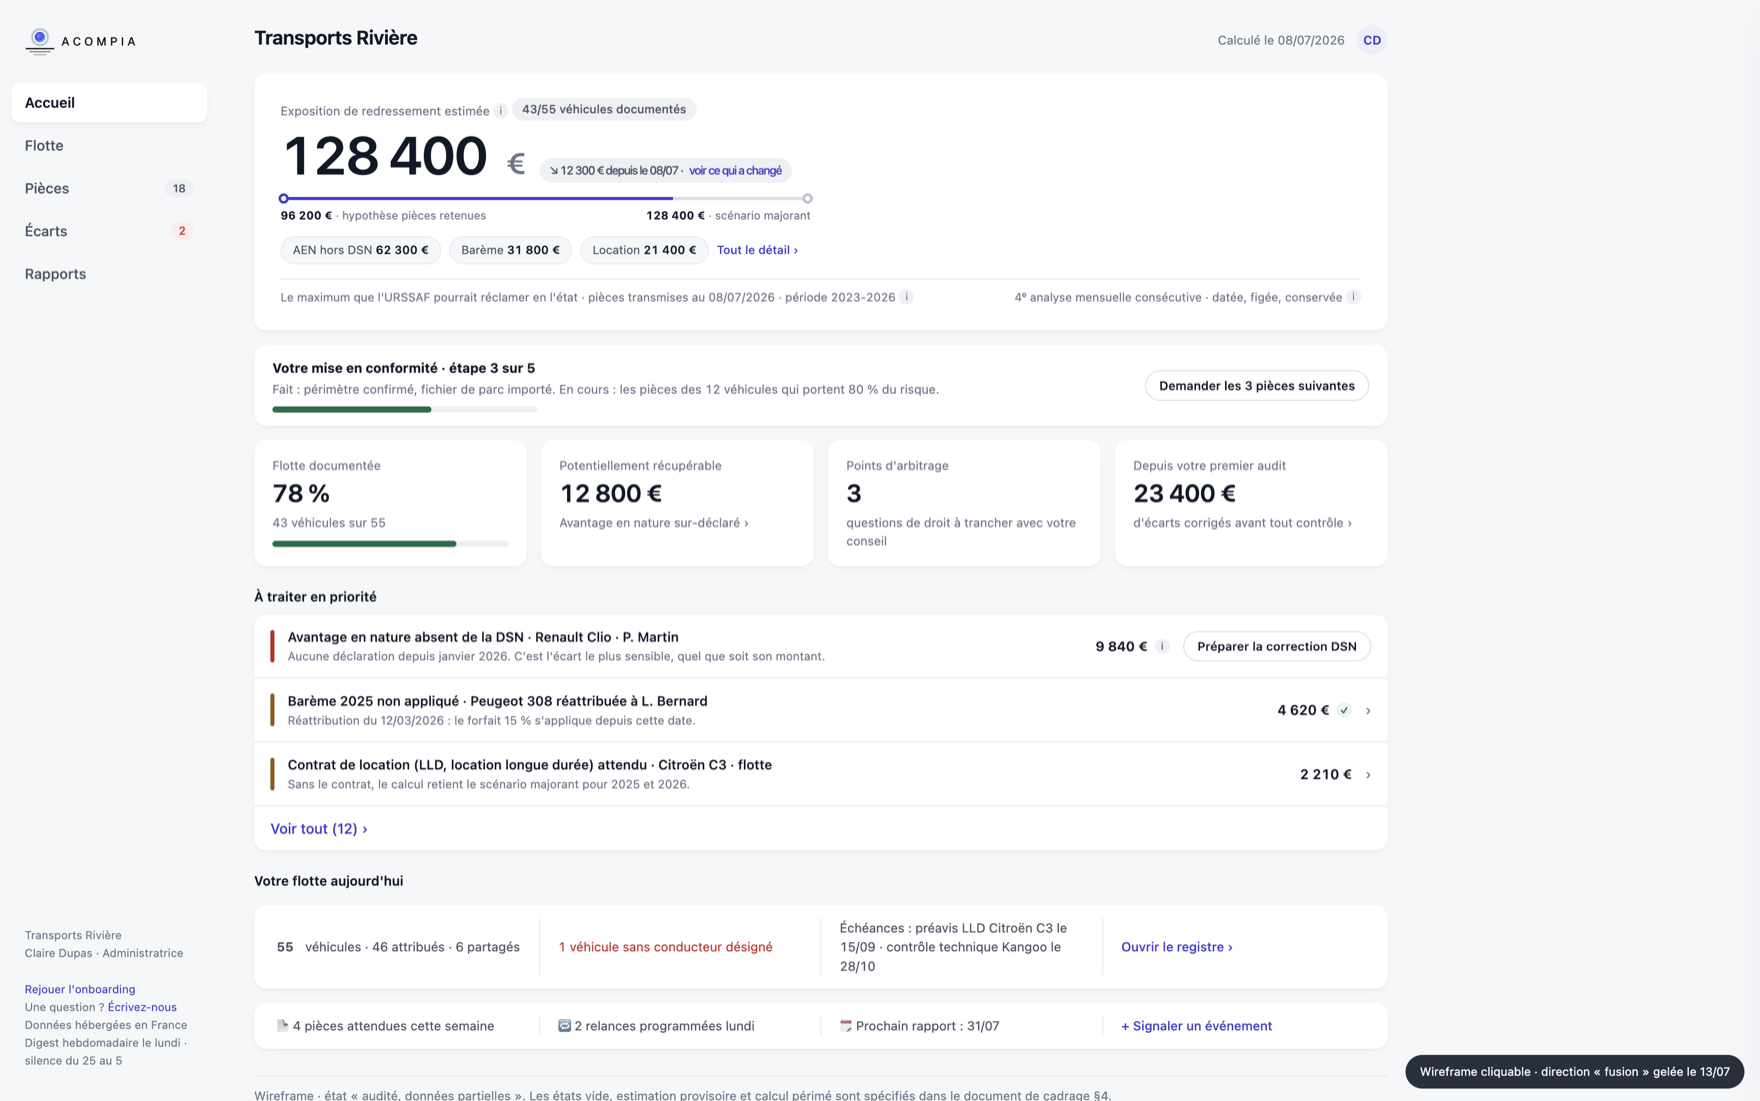
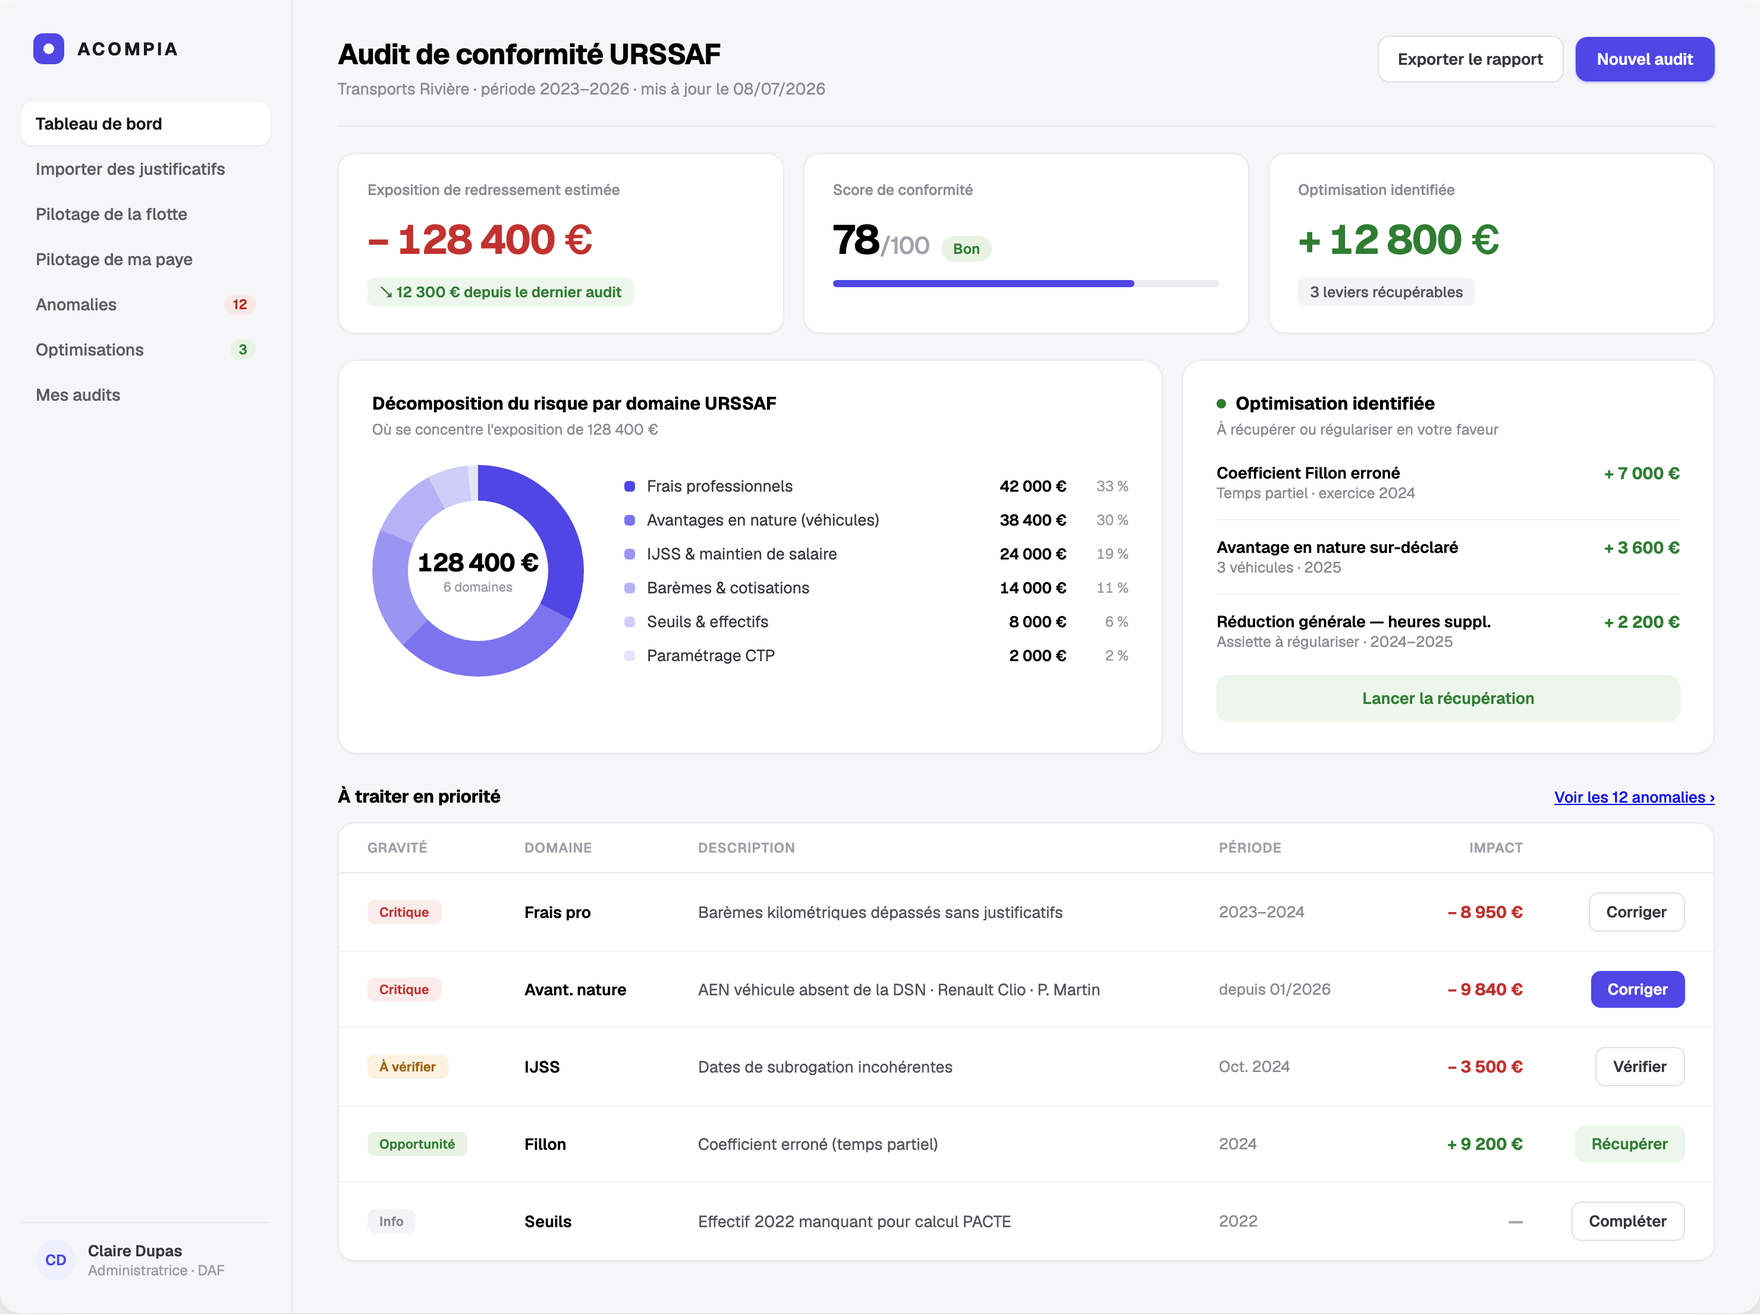
Hero : eyebrow signature + sous-titre valeur, dashboard remplacé par la maquette 2a (style Qonto clair) en WebP 88 Ko + fallback PNG, dimensions et cadrage à jour

diff --git a/index.html b/index.html
@@ -336,10 +336,11 @@
 
     <div class="hero-layout">
     <div class="hero-content reveal">
+      <p class="hero-eyebrow">La conformité URSSAF, enfin maîtrisée</p>
       <h1>Réduisez vos risques URSSAF.<br>Optimisez vos <em>charges sociales</em>.</h1>
 
       <p class="hero-subtitle">
-        ACOMPIA analyse vos pratiques, détecte les risques de redressement et optimise vos cotisations avant qu'il ne soit trop tard.
+        Les contrôles sont déclenchés par algorithme, vos DSN analysées chaque mois. ACOMPIA chiffre votre exposition, corrige les écarts et constitue votre dossier de preuve.
       </p>
 
       <!-- Trust bar perspective (entre subtitle et CTAs) -->
@@ -377,9 +378,12 @@
           <span class="dash-window-url">app.acompia.com</span>
         </div>
         <div class="dash-shot-clip">
-          <img src="assets/dashboard-acompia.png"
-               alt="Tableau de bord ACOMPIA : exposition URSSAF chiffrée par thématique, mise en conformité et écarts à corriger"
-               class="dash-shot" width="1760" height="1101" loading="eager" decoding="async">
+          <picture>
+            <source srcset="assets/dashboard-acompia.webp" type="image/webp">
+            <img src="assets/dashboard-acompia.png"
+                 alt="Tableau de bord ACOMPIA : exposition URSSAF chiffrée par thématique, mise en conformité et écarts à corriger"
+                 class="dash-shot" width="1760" height="1314" loading="eager" fetchpriority="high" decoding="async">
+          </picture>
         </div>
       </div>
 

diff --git a/css/style-v2.css b/css/style-v2.css
@@ -3753,7 +3753,7 @@ section.platform h2 em,
   background: rgba(17, 24, 54, 0.04);
   border-radius: 7px;
 }
-/* Cadre sur la partie haute du dashboard : masque l'annotation de dev en bas */
+/* Cadre sur la partie haute du dashboard (KPIs + graphique visibles, tableau coupé net) */
 .dash-shot-clip {
   aspect-ratio: 1760 / 985;
   overflow: hidden;
@@ -4023,6 +4023,16 @@ section.platform h2 em,
   .hero-split .hero-subtitle { margin-left: auto; margin-right: auto; }
   .hero-split .hero-content .trust-bar { justify-content: center; }
   .hero-split .hero-ctas { justify-content: center; }
+}
+
+/* Signature de marque en eyebrow au-dessus du H1 */
+.hero-eyebrow {
+  font-family: 'Geist Mono', monospace;
+  font-size: 12px;
+  letter-spacing: 0.16em;
+  text-transform: uppercase;
+  color: var(--accent, #4F46E5);
+  margin-bottom: 18px;
 }
 
 /* Hero au-dessus de la ligne de flottaison : visible dès le chargement (pas d'entrée fantomatique).
